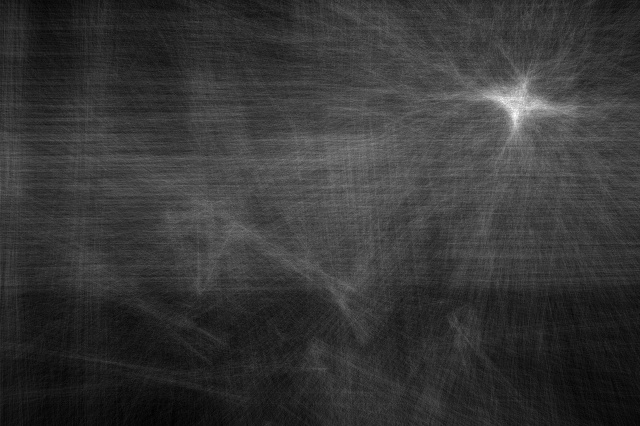
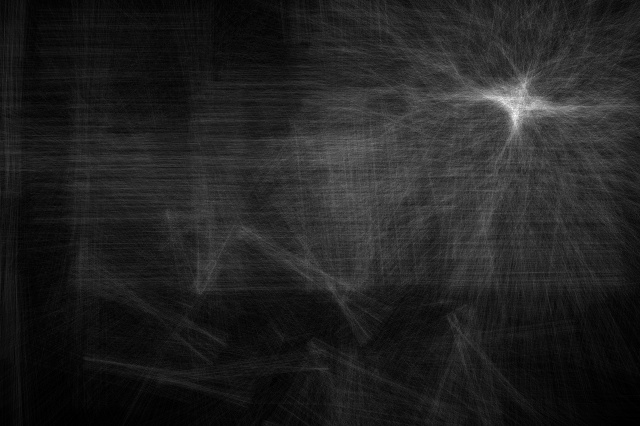
got threshold to work without imread

diff --git a/CW/dart_truth.cpp b/CW/dart_truth.cpp
@@ -32,7 +32,7 @@ float get_f1_score(float t_p, float f_p, float f_n);
 
 void detectAndDisplay( Mat frame, vector<Rect> truths, string num, vector<vector<int>> circles );
 void sobel(Mat &input, Mat &output_x, Mat &output_y, Mat &output_mag, Mat &output_dir);
-void write_sobel(Mat x, Mat y, Mat m, Mat d, string num);
+void write_sobel(Mat x, Mat y, string num);
 void threshold(Mat &input, int t, string num, string ver);
 void gaussian(Mat &input, int size);
 void filter_non_max(Mat &input_mag, Mat &input_dir);
@@ -40,6 +40,7 @@ void lh_transform(Mat &input, Mat &direction, string num);
 void draw_circles(Mat &input, vector<vector<int> > circles, string num);
 void draw(Mat frame, vector<Rect> truths, vector<Rect> darts, vector<Rect> darts_f, vector<vector<int>> circles, string num);
 void debug_out(vector<Rect> darts_filtered, vector<Rect> truths, string num);
+Mat normalize_and_save(Mat input, string num, string name);
 
 String cascade_name = "dart_cascade/cascade.xml";
 CascadeClassifier cascade;
@@ -82,21 +83,36 @@ int main( int argc, const char** argv ) {
 	imwrite("detected_darts/"+image_n+"/blurred.jpg", img_gray);
 	Mat img_x(frame.size(), CV_32FC1);
 	Mat img_y(frame.size(), CV_32FC1);
-	Mat img_magnitude(frame.size(), CV_32FC1);
-	Mat img_direction(frame.size(), CV_32FC1);
-	
+	Mat img_m(frame.size(), CV_32FC1);
+	Mat img_d(frame.size(), CV_32FC1);
 
-	sobel(img_gray, img_x, img_y, img_magnitude, img_direction); 
-	write_sobel(img_x, img_y, img_magnitude, img_direction, image_n);
-	Mat img_threshold = imread("detected_darts/"+image_n+"/magnitude.jpg", 1);
-    Mat gray_test;
-    cvtColor( img_threshold, gray_test, CV_BGR2GRAY );
+	sobel(img_gray, img_x, img_y, img_m, img_d);
+
+	// Mat r_img_x(frame.size(), CV_8UC1);
+	// Mat r_img_y(frame.size(), CV_8UC1);
+	// Mat r_img_m(frame.size(), CV_8UC1);
+	// Mat r_img_d(frame.size(), CV_8UC1);
+	// normalize(img_x,r_img_x,0,255,NORM_MINMAX, CV_8UC1);
+	// normalize(img_y,r_img_y,0,255,NORM_MINMAX, CV_8UC1);
+    // normalize(img_m,r_img_m,0,255,NORM_MINMAX, CV_8UC1);
+    // normalize(img_d,r_img_d,0,255,NORM_MINMAX, CV_8UC1);
+    // imwrite("detected_darts/"+num+"/x.jpg",r_img_x);
+    // imwrite("detected_darts/"+num+"/y.jpg",r_img_y);
+    // imwrite("detected_darts/"+num+"/magnitude.jpg",r_img_m);
+    // imwrite("detected_darts/"+num+"/direction.jpg",r_img_d);
+	write_sobel(img_x, img_y, image_n);
+	Mat image_m = normalize_and_save(img_m, image_n, "magnitude");
+	Mat image_d = normalize_and_save(img_d, image_n, "direction");
+
+	// Mat img_threshold = imread("detected_darts/"+image_n+"/magnitude.jpg", 1);
+    // Mat gray_test;
+    // cvtColor( img_threshold, gray_test, CV_BGR2GRAY );
 
 	// set threshold (between 0 and 255) for the normalised magnitude image
-	threshold(gray_test, 30, image_n, "source");
+	threshold(image_m, 50, image_n, "source");
 
-	vector<vector<int>> circles = ch_transform(gray_test, 40, min(img_threshold.rows,img_threshold.cols), 20, img_direction, image_n);
-	lh_transform(gray_test, img_direction, image_n);
+	vector<vector<int>> circles = ch_transform(image_m, 40, min(frame.rows,frame.cols)/2, 20, img_d, image_n);
+	lh_transform(image_m, img_d, image_n);
 	
 	// 3. Detect Faces and Display Result
 	detectAndDisplay( frame, read_csv(image_n), image_n, circles );
@@ -187,21 +203,24 @@ void sobel(Mat &input, Mat &output_x, Mat &output_y, Mat &output_mag, Mat &outpu
 	}
 }
 
-void write_sobel(Mat x, Mat y, Mat m, Mat d, string num) {
+void write_sobel(Mat x, Mat y, string num) {
 
 	Mat r_img_x(x.size(), CV_8UC1);
 	Mat r_img_y(x.size(), CV_8UC1);
-	Mat r_img_magnitude(x.size(), CV_8UC1, Scalar(0));
-	Mat r_img_direction(x.size(), CV_8UC1, Scalar(0));
 	normalize(x,r_img_x,0,255,NORM_MINMAX, CV_8UC1);
     normalize(y,r_img_y,0,255,NORM_MINMAX, CV_8UC1);
-    normalize(m,r_img_magnitude,0,255,NORM_MINMAX);
-    normalize(d,r_img_direction,0,255,NORM_MINMAX);
     imwrite("detected_darts/"+num+"/x.jpg",r_img_x);
     imwrite("detected_darts/"+num+"/y.jpg",r_img_y);
-    imwrite("detected_darts/"+num+"/magnitude.jpg",r_img_magnitude);
-    imwrite("detected_darts/"+num+"/direction.jpg", r_img_direction);
 
+}
+
+Mat normalize_and_save(Mat input, string num, string name) {
+	Mat n_input(input.size(), CV_8UC1, Scalar(0));
+	normalize(input, n_input, 0, 255, NORM_MINMAX, CV_8UC1);
+
+	imwrite("detected_darts/"+num+"/"+name+".jpg", n_input);
+
+	return n_input;
 }
 
 void gaussian(Mat &input, int size) {
@@ -265,7 +284,6 @@ void filter_non_max(Mat &input_mag, Mat &input_dir) {
 }
 
 void threshold(Mat &input, int t, string num, string ver) {
-
 	assert(t >= 0 && t <= 255);
 	// output.create(input.size(), input.type());
 	for(int i = 0; i < input.rows; i++) {
@@ -318,14 +336,15 @@ void lh_transform(Mat &input, Mat &direction, string num) {
         }
     }
 
-	Mat hough_norm(diag, 360, CV_8UC1, Scalar(0));
-    normalize(hough_output, hough_norm, 0, 255, NORM_MINMAX);
+	Mat img_threshold = normalize_and_save(hough_output, num, "rho_theta_space");
+	// Mat hough_norm(diag, 360, CV_8UC1, Scalar(0));
+    // normalize(hough_output, hough_norm, 0, 255, NORM_MINMAX);
 	
-    imwrite("detected_darts/"+num+"/rho_theta_space.jpg", hough_norm );
+    // imwrite("detected_darts/"+num+"/rho_theta_space.jpg", hough_norm );
 
-	Mat load_threshold = imread("detected_darts/"+num+"/rho_theta_space.jpg", 1);
-    Mat img_threshold;
-    cvtColor(load_threshold, img_threshold, CV_BGR2GRAY );
+	// Mat load_threshold = imread("detected_darts/"+num+"/rho_theta_space.jpg", 1);
+    // Mat img_threshold;
+    // cvtColor(load_threshold, img_threshold, CV_BGR2GRAY );
 
 	// set threshold (between 0 and 255) for the normalised magnitude image
 	threshold(img_threshold, 10, num, "rho_theta");
@@ -346,22 +365,23 @@ void lh_transform(Mat &input, Mat &direction, string num) {
 			}
 		}
 	}
-
-	Mat hough_norm_o(input.rows, input.cols, CV_8UC1, Scalar(0));
-    normalize(hough_output_o, hough_norm_o, 0, 255, NORM_MINMAX);
-	Mat hough_th;
+	Mat img_threshold_o = normalize_and_save(hough_output_o, num, "hough_space_lines");
+	// Mat hough_norm_o(input.rows, input.cols, CV_8UC1, Scalar(0));
+    // normalize(hough_output_o, hough_norm_o, 0, 255, NORM_MINMAX);
  
-    imwrite("detected_darts/"+num+"/hough_space_lines.jpg", hough_norm_o );
+    // imwrite("detected_darts/"+num+"/hough_space_lines.jpg", hough_norm_o );
 
-	Mat load_threshold_o = imread("detected_darts/"+num+"/hough_space_lines.jpg", 1);
-    Mat img_threshold_o;
-    cvtColor( load_threshold_o, img_threshold_o, CV_BGR2GRAY );
+	// Mat load_threshold_o = imread("detected_darts/"+num+"/hough_space_lines.jpg", 1);
+    // Mat img_threshold_o;
+    // cvtColor( load_threshold_o, img_threshold_o, CV_BGR2GRAY );
 
 	// set threshold (between 0 and 255) for the normalised magnitude image
 	threshold(img_threshold_o, 160, num, "lines");
 }
 
 vector<vector<int>> ch_transform(Mat &input, int r_min, int r_max, double threshold, Mat &direction, string num) {
+
+	assert(input.rows == direction.rows && input.cols == direction.cols);
 
 	int ***hough_space = malloc3dArray(input.rows, input.cols, r_max);
     for (int i = 0; i < input.rows; i++) {
